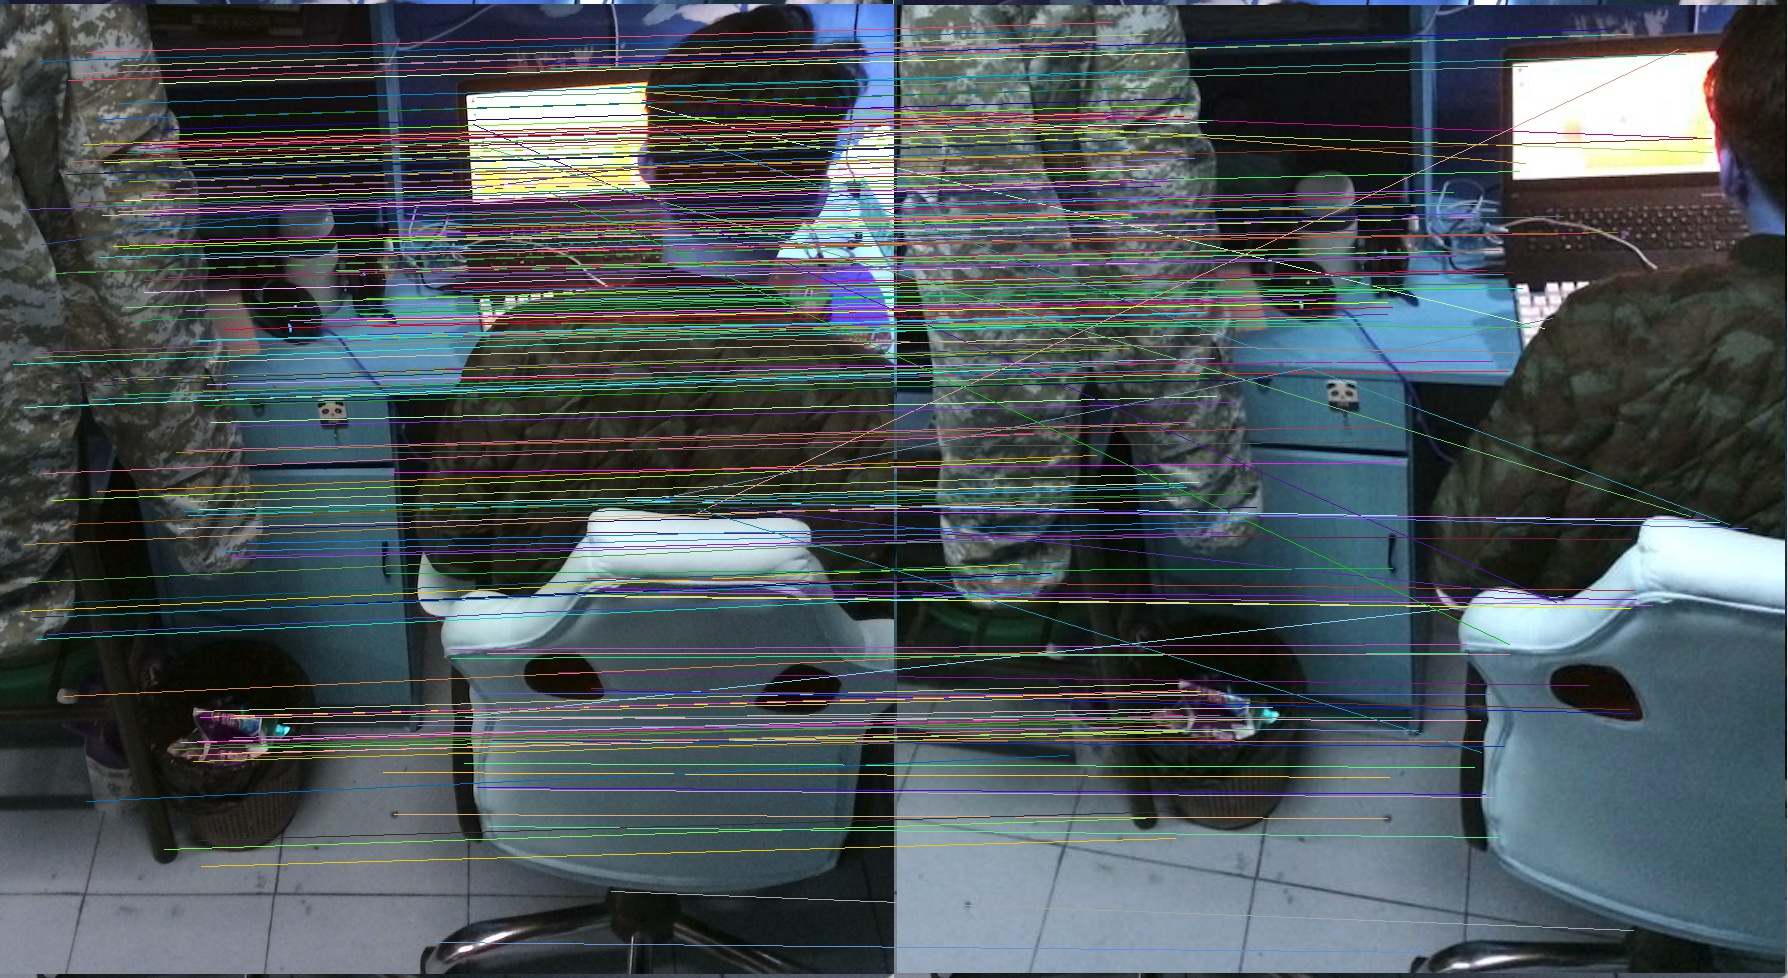
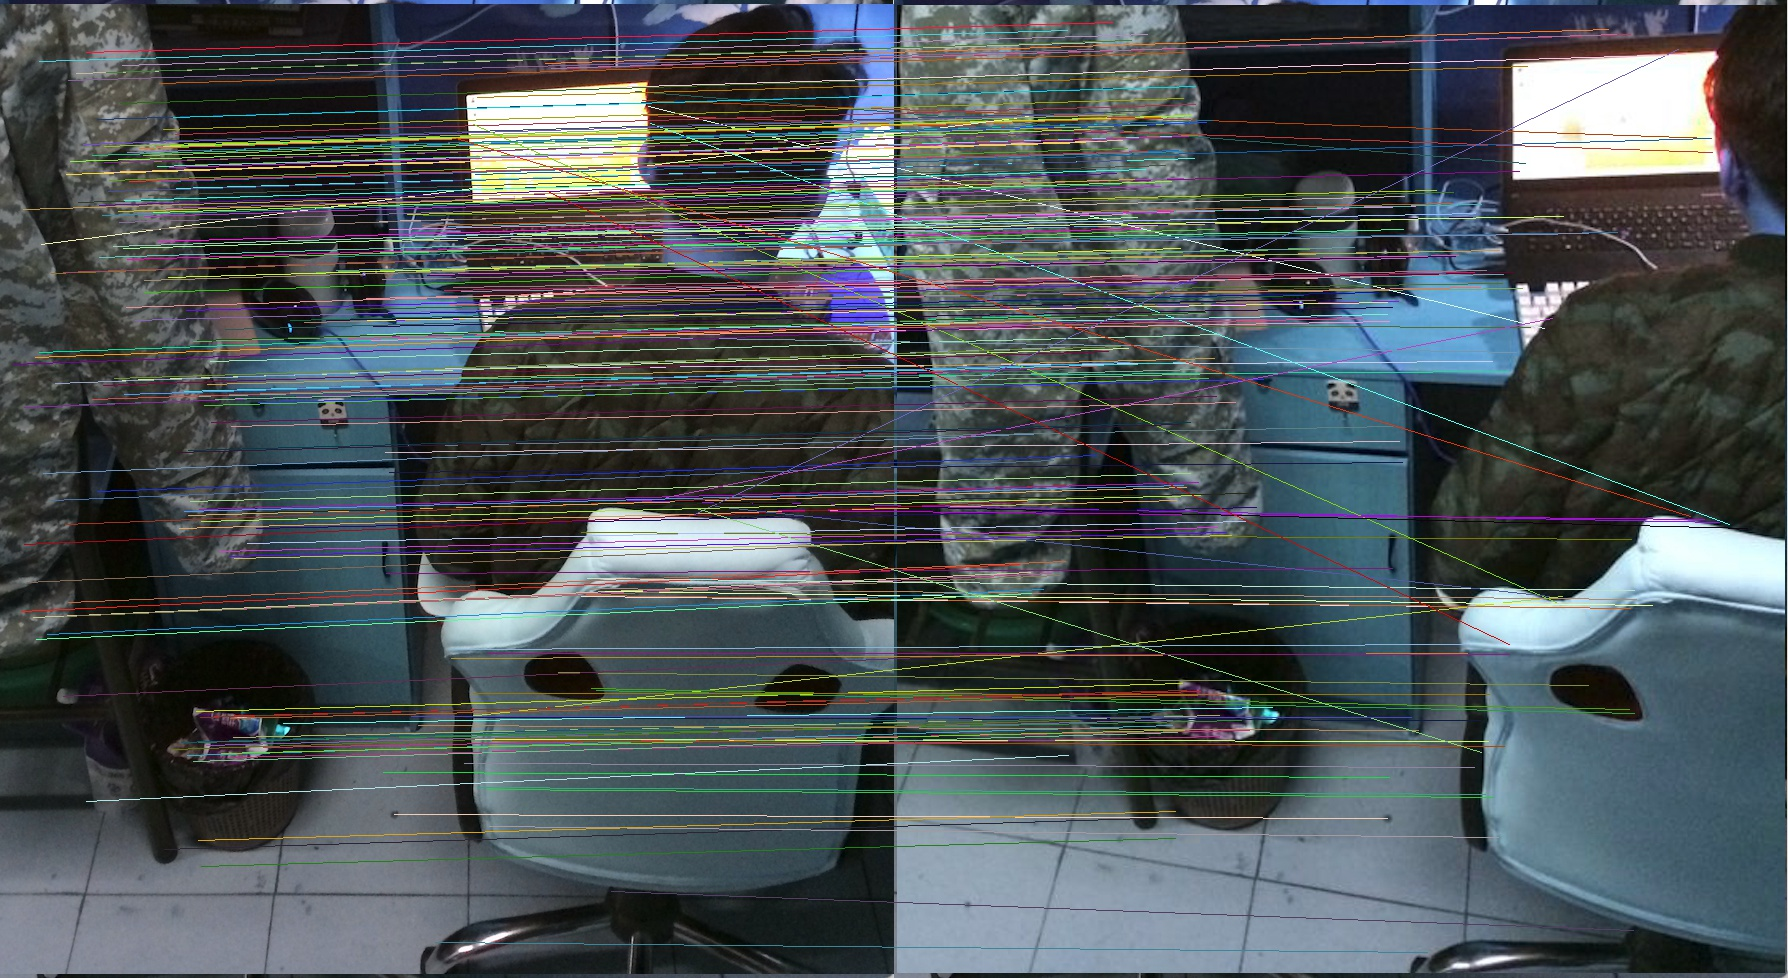
Run

Changed region(s): [[0.0308, 0.0307, 0.9536, 0.8896], [0.8305, 0.4601, 0.8613, 0.4908], [0.8305, 0.3067, 0.8613, 0.3374]]

diff --git a/GetPoint.py b/GetPoint.py
@@ -15,7 +15,7 @@ def keypointToPoint(KEYPOINT):
     for i in range(len(KEYPOINT)):
         point[i * 2] = KEYPOINT[i].pt[0]
         point[i * 2 + 1] = KEYPOINT[i].pt[1]
-    return point.reshape(-1,2)
+        return point.reshape(-1,2)
 # 连线匹配的点
 def MatchPoint(IMG_LETF,IMG_RIGHT,POINTS):
     # 设置偏移，总的长和宽
@@ -37,7 +37,7 @@ def MatchPoint(IMG_LETF,IMG_RIGHT,POINTS):
     cv2.imshow('MatchPoint',IMG_STITCH)
     cv2.waitKey(0)
     cv2.destroyAllWindows()
-    cv2.imwrite('SITICH.jpg',IMG_STITCH)
+    cv2.imwrite('./assets/SITICH.jpg',IMG_STITCH)
 
 # 获取特征点
 def GetPoint(IMG_LEFT_GRAY,IMG_RIGHT_GRAY):
@@ -69,14 +69,30 @@ def GetPoint(IMG_LEFT_GRAY,IMG_RIGHT_GRAY):
     maxdist = np.median(dist)
     rest = [m for m in matches if m.distance < maxdist]
     # 选取两幅图像中经过筛选之后的点
-    points = np.float32([(kp_left[m.queryIdx].pt,kp_right[m.trainIdx].pt) for m in rest])
-    return points
+    pts_left = []
+    pts_right = []
+    points = []
+    for m in rest:
+        pts_left.append(kp_left[m.queryIdx].pt)
+        pts_right.append(kp_right[m.trainIdx].pt)
+        points.append((kp_left[m.queryIdx].pt,kp_right[m.trainIdx].pt))
+    pts_left = np.float32(pts_left)
+    pts_right = np.float32(pts_right)
+    points = np.float32(points)
+    # 根据匹配点对计算基础矩阵
+    F, mask = cv2.findFundamentalMat(pts_left,pts_right,cv2.FM_LMEDS) 
+    # 寻则内部点
+    pts_left = pts_left[mask.ravel()==1]
+    pts_right = pts_right[mask.ravel()==1]
+    return pts_left,pts_right,points,F
+
+
 
 if __name__ == "__main__":
     start = time.time()
     # 加载分别从两个摄像头传入的图像
-    IMG_LETF = cv2.imread('PRI_LEFT.jpg')
-    IMG_RIGHT = cv2.imread('PRI_RIGHT.jpg')
+    IMG_LETF = cv2.imread('./assets/IMG_LEFT.jpg')
+    IMG_RIGHT = cv2.imread('./assets/IMG_RIGHT.jpg')
     # 获取图像矩阵
     # ROWS, COLS, CHANNELS = IMG_LETF.shape
     # 颜色空间转换
@@ -87,6 +103,6 @@ if __name__ == "__main__":
     IMG_RIGHT_GRAY = cv2.cvtColor(IMG_RIGHT, cv2.COLOR_RGB2GRAY)
     # 连线匹配的点
     end = time.time()
-    MatchPoint(IMG_LETF,IMG_RIGHT,GetPoint(IMG_LEFT_GRAY,IMG_RIGHT_GRAY))
+    MatchPoint(IMG_LETF,IMG_RIGHT,GetPoint(IMG_LEFT_GRAY,IMG_RIGHT_GRAY)[2])
     # print 'Time costs : %f ' % (end - start)
 

diff --git a/Run.py b/Run.py
@@ -7,14 +7,15 @@ import numpy as np
 import time
 from match import *
 from GetPoint import *
+from Calibration import *
 
 
 
 if __name__ == "__main__":
 	start = time.time()
 	# 加载分别从两个摄像头传入的图像
-	IMG_LETF = cv2.imread('IMG_LEFT.jpg')
-	IMG_RIGHT = cv2.imread('IMG_RIGHT.jpg')
+	IMG_LETF = cv2.imread('./assets/IMG_LEFT.jpg')
+	IMG_RIGHT = cv2.imread('./assets/IMG_RIGHT.jpg')
 	# 获取图像矩阵
 	# ROWS, COLS, CHANNELS = IMG_LETF.shape
 	# 颜色空间转换
@@ -24,8 +25,31 @@ if __name__ == "__main__":
 	IMG_LEFT_GRAY = cv2.cvtColor(IMG_LETF, cv2.COLOR_RGB2GRAY)
 	IMG_RIGHT_GRAY = cv2.cvtColor(IMG_RIGHT, cv2.COLOR_RGB2GRAY)
 	end = time.time()
-	print 'totally costs: %f' % (end - start)
+	
 	# 连线匹配的点
-	MatchPoint(IMG_LETF,IMG_RIGHT,GetPoint(IMG_LEFT_GRAY,IMG_RIGHT_GRAY))
+	# MatchPoint(IMG_LETF,IMG_RIGHT,GetPoint(IMG_LEFT_GRAY,IMG_RIGHT_GRAY)[2])
+	(IMG_GRAY,obj_points,img_points,RET,MTX,DIST,RVS,TVS) = Calibration("./assets/calibration/*.JPG",7,7,1024,768)
+	# 内参数矩阵
+	K = MTX
+	# 基础矩阵
+	F = GetPoint(IMG_LEFT_GRAY,IMG_RIGHT_GRAY)[3]
+	# 本征矩阵
+	E = K.T * F * K
+
+
+
+
+
+
+
+
+
+
+
+	print 'totally costs: %f' % (end - start)
+
+
+	
+
 	
 	

diff --git a/Calibration.py b/Calibration.py
@@ -85,7 +85,7 @@ def SizeofPic(PATH):
 	return pf.shape[::-1]
 
 if __name__ == '__main__':
-	(IMG_GRAY,obj_points,img_points,RET,MTX,DIST,RVS,TVS) = Calibration("./calibration/*.JPG",7,7,1024,768)
+	(IMG_GRAY,obj_points,img_points,RET,MTX,DIST,RVS,TVS) = Calibration("./assets/calibration/*.JPG",7,7,1024,768)
 	# print BackProjErr(obj_points,img_points,RET,MTX,DIST,RVS,TVS)
 	# IMG = RemvDist(IMG_GRAY,MTX,DIST)
 

diff --git a/README.md b/README.md
@@ -13,7 +13,7 @@
 
 
 # Calibration模块
-原图
+原图(用于标定的原图均在./assets/calibration/目录)
 ![stitch](https://github.com/sysorem/Binocular-vision-ranging/blob/master/assets/calibration_origin.jpg)
 标定后
 ![stitch](https://github.com/sysorem/Binocular-vision-ranging/blob/master/assets/calibration.jpg)
